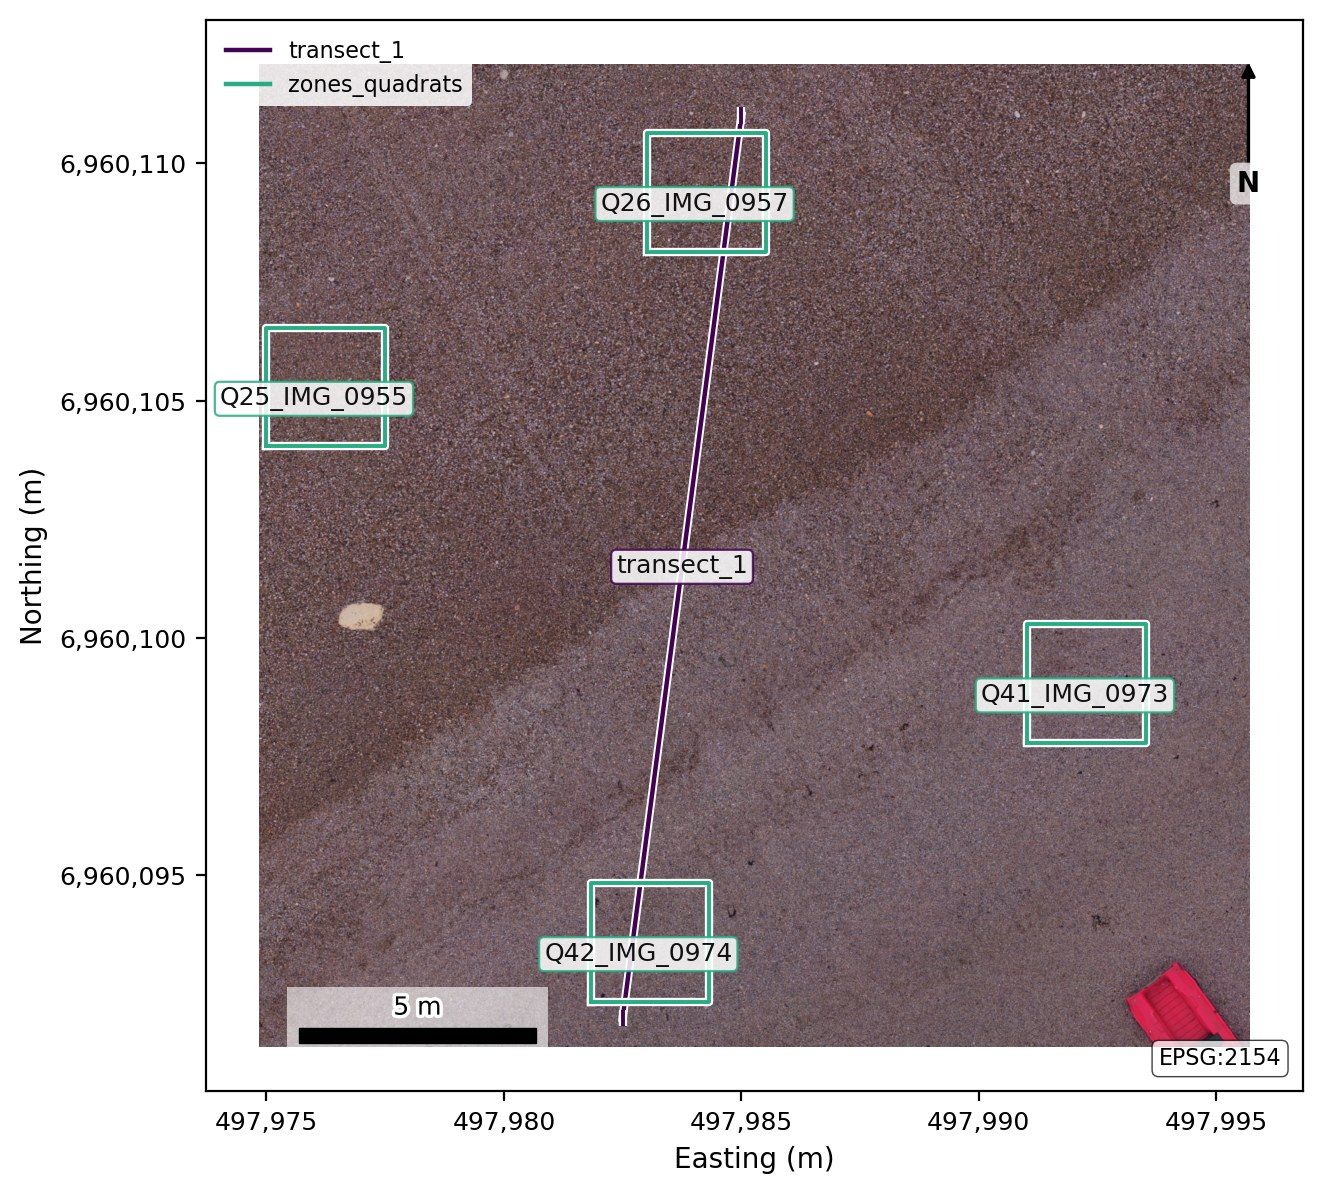
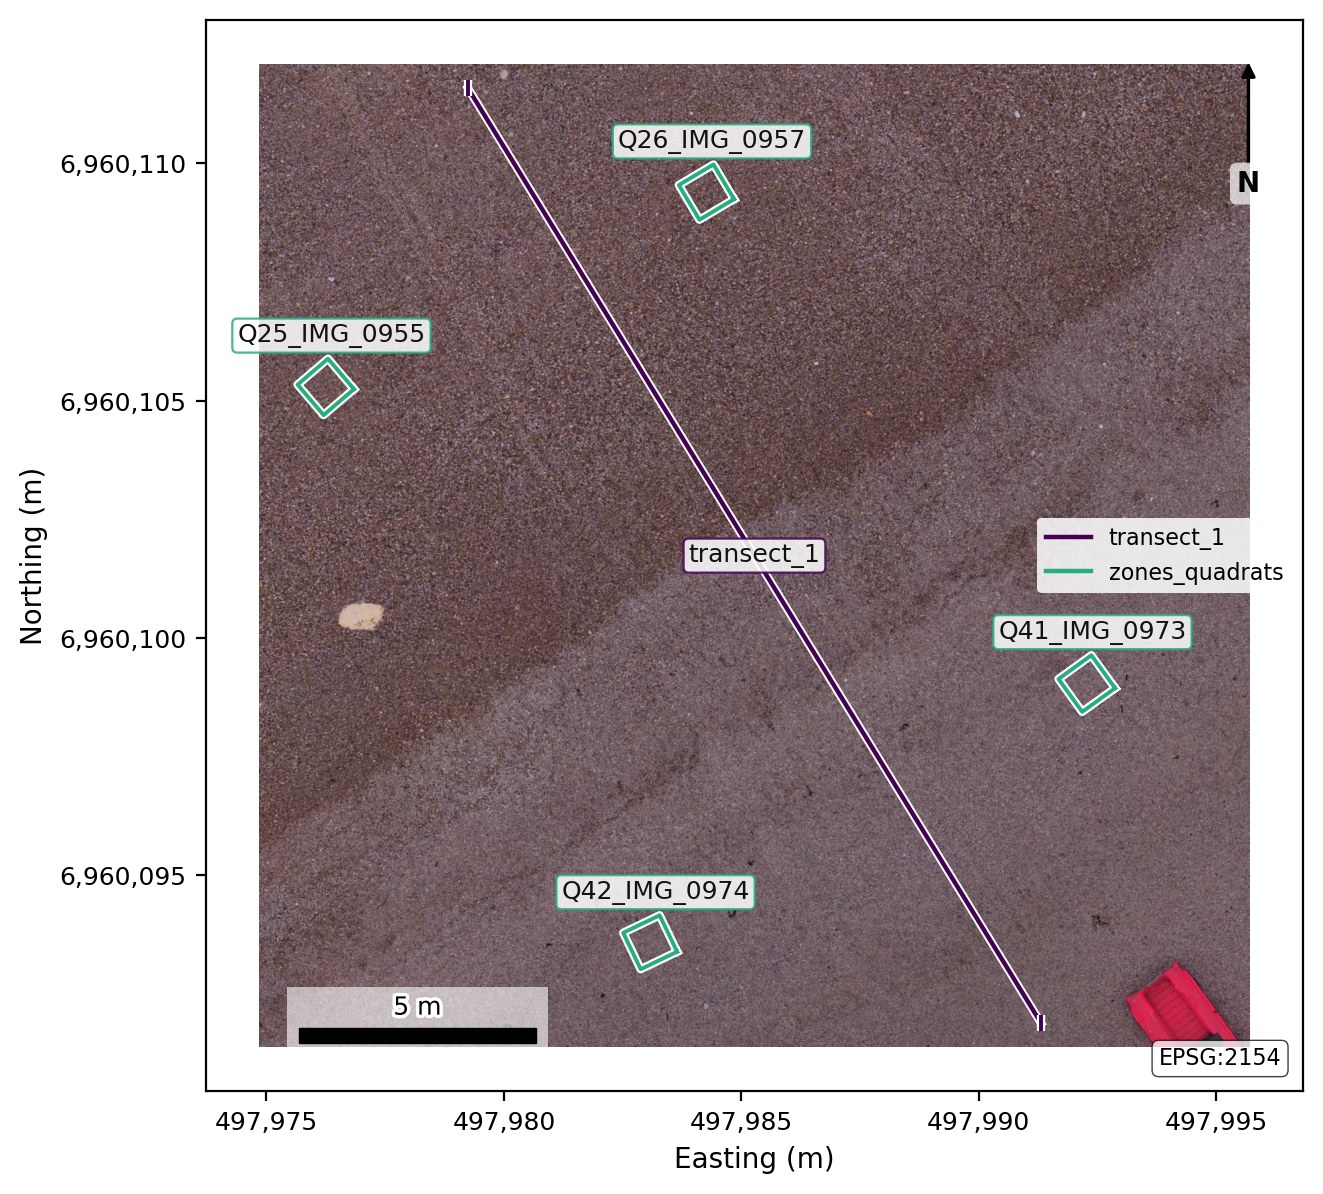
Etretat example: cross-shore transect and real quadrat footprints
The transect ran north (7 degrees), about 40 degrees off the shore normal. It
now runs along the DEM's steepest descent (328.5 degrees, plane fit R2 0.98),
perpendicular to the sediment bands (58 degrees). The zones were 2.5 m
squares aligned north-south; they are now the four 0.84 m quadrat frames as
placed in the ortho by Georeference from their photographs (3-4 mm
residual), rotated 26-36 degrees as laid on the beach. Transect profiles are
labelled by their statistic in display units, and zone-map labels no longer
cover small zones. README figures regenerated; the transect profile added.

diff --git a/functions/report_figures.py b/functions/report_figures.py
@@ -1413,10 +1413,19 @@ def zone_location_map(image_path, geojson_paths: Sequence, *, transform=None,
                     cx, cy = allpts.mean(axis=0)
                     lab = _feature_label(feat, fid)
                     drawn_labels.append(lab)
-                    ax.text(cx, cy, lab, ha="center", va="center",
-                            fontsize=FONT_PT, color="#111", zorder=7,
-                            bbox=dict(boxstyle="round,pad=0.2", fc="white",
-                                      ec=col, lw=0.8, alpha=0.85))
+                    box = dict(boxstyle="round,pad=0.2", fc="white",
+                               ec=col, lw=0.8, alpha=0.85)
+                    if any(kind == "poly" for kind, _a in parts):
+                        # Above the polygon, so a small zone (a quadrat)
+                        # stays visible under its label.
+                        ax.annotate(lab, (cx, allpts[:, 1].max()),
+                                    xytext=(0, 4), textcoords="offset points",
+                                    ha="center", va="bottom", fontsize=FONT_PT,
+                                    color="#111", zorder=7, bbox=box)
+                    else:
+                        ax.text(cx, cy, lab, ha="center", va="center",
+                                fontsize=FONT_PT, color="#111", zorder=7,
+                                bbox=box)
             if len(per_file) > 1:
                 handles.append(Line2D([], [], color=col, lw=1.6,
                                       label=p.stem))
@@ -1436,7 +1445,7 @@ def zone_location_map(image_path, geojson_paths: Sequence, *, transform=None,
             ax.set_xlabel("x (px)")
             ax.set_ylabel("y (px)")
         if handles:
-            ax.legend(handles=handles, loc="upper left", framealpha=0.85,
+            ax.legend(handles=handles, loc="best", framealpha=0.85,
                       edgecolor="none")
         if title:
             ax.set_title(title)

diff --git a/functions/zonal_stats.py b/functions/zonal_stats.py
@@ -998,11 +998,16 @@ def plot_transect_profile(
     out_png: str | Path,
     *,
     field_name: str = "value",
+    parameter: Optional[str] = None,
 ) -> Path:
     """Write a two-panel plot: raster value vs distance, DEM vs distance.
 
-    The DEM panel is omitted when no elevation samples are present.
+    ``parameter`` is the raster's per-cell statistic (``D50``, ``sorting``…,
+    read from its file name by the caller): with it the values are converted
+    to display units and labelled as that statistic (``Clast length — median
+    [mm]``). The DEM panel is omitted when no elevation samples are present.
     """
+    from functions.units import resolve_display
     import matplotlib
     matplotlib.use("Agg")
     import matplotlib.pyplot as plt
@@ -1020,13 +1025,16 @@ def plot_transect_profile(
         axes = [axes]
 
     ax0 = axes[0]
-    ax0.plot(sample.distance_m, sample.raster_value, "-",
-             color="#225599", linewidth=1.4)
-    # Stored values are plotted without unit conversion, so no display unit is appended.
-    _disp = field_display(field_name)[0] or str(field_name).replace("_", " ")
-    ax0.set_ylabel(_disp)
+    # Display units and label from the field and the statistic together, as
+    # the Map tab labels the same raster.
+    _disp, _unit, _factor, _cmap, _div = resolve_display(field_name, parameter)
+    if not _disp:
+        _disp = str(field_name).replace("_", " ") or "value"
+    values = np.asarray(sample.raster_value, dtype=float) * float(_factor or 1.0)
+    ax0.plot(sample.distance_m, values, "-", color="#225599", linewidth=1.4)
+    ax0.set_ylabel(f"{_disp} [{_unit}]" if _unit else _disp)
     ax0.grid(True, alpha=0.3)
-    ax0.set_title(f"Transect {sample.transect_id} — {_disp} profile")
+    ax0.set_title(f"Transect {sample.transect_id}: {_disp}")
 
     if has_dem:
         ax1 = axes[1]

diff --git a/tests/test_zonal_stats.py b/tests/test_zonal_stats.py
@@ -912,3 +912,27 @@ def test_a_zonal_map_labels_sizes_like_the_map_tab():
                                               parameter=parameter)
     assert (unit, factor) == ("mm", 1000.0)
     assert mx._raster_label(stem, parameter, unit) == "Clast length [mm]"
+
+
+def test_a_transect_profile_is_labelled_by_its_statistic_in_display_units(tmp_path):
+    """The profile of a D50 raster was drawn in metres and labelled "Clast
+    length" with no unit."""
+    import matplotlib
+    matplotlib.use("Agg")
+    from unittest import mock
+    from functions.zonal_stats import TransectSample, plot_transect_profile
+    s = TransectSample("t1", np.array([0.0, 1.0, 2.0]), np.array([0.040, 0.045, 0.050]))
+    captured = {}
+    import matplotlib.axes
+    real_plot = matplotlib.axes.Axes.plot
+
+    def spy(self, *a, **k):
+        captured.setdefault("y", a[1])
+        return real_plot(self, *a, **k)
+    with mock.patch.object(matplotlib.axes.Axes, "plot", spy), \
+         mock.patch("matplotlib.figure.Figure.savefig"):
+        with mock.patch("matplotlib.pyplot.close") as close:
+            plot_transect_profile(s, tmp_path / "p.png", field_name="Clast_length", parameter="D50")
+            fig = close.call_args[0][0]
+    assert np.allclose(captured["y"], [40.0, 45.0, 50.0])
+    assert fig.axes[0].get_ylabel() == "Clast length — median [mm]"

diff --git a/functions/worker.py b/functions/worker.py
@@ -80,8 +80,10 @@ def _w_zonal_transects(args: dict, log) -> tuple[dict, list]:
         for t in results:
             png = out_dir / f"{Path(args['out_csv']).stem}__{t.transect_id}.png"
             try:
-                plot_transect_profile(t, png,
-                                      field_name=args.get("field_name") or "")
+                from functions.map_export import _parameter_from_stem
+                plot_transect_profile(
+                    t, png, field_name=args.get("field_name") or "",
+                    parameter=_parameter_from_stem(Path(args["raster"]).stem))
                 log(f"plot -> {png}")
                 pngs.append(str(png))
             except Exception as ex:  # per-plot best effort

diff --git a/README.md b/README.md
@@ -61,9 +61,13 @@ north arrow and basemap.
 zones, survey units) and along transects, from GeoJSON drawn in the app or imported.
 
 <p align="center">
-  <img src="docs/figures/zones-map.jpg" alt="Quadrat zones and a transect over the ortho-image" width="60%"/>
+  <img src="docs/figures/zones-map.jpg" alt="Quadrat footprints and a cross-shore transect over the ortho-image" width="48%"/>
+  <img src="docs/figures/transect-profile.png" alt="D50 and elevation along the cross-shore transect" width="48%"/>
 </p>
-<p align="center"><em>Four quadrat zones and a cross-shore transect on the Étretat example.</em></p>
+<p align="center"><em>Left: the four quadrats of the Étretat example, placed in the ortho-image
+from their photographs, and a cross-shore transect. Right: D50 and elevation along the
+transect, from the landward end: the median clast length rises from about 43 to 50 mm
+across the break in slope.</em></p>
 
 **Scale from an object.** A photograph taken without a quadrat or a known ground sample
 distance is scaled from an object in the picture. With the object's size unknown, clasts are
